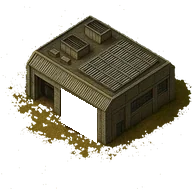
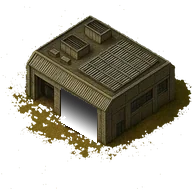
fix(art): bake a doorway shadow into the vehicle factory sprite
Paint a black depth gradient into the garage-cutout alpha of
vehicle_factory.webp so units emerge from shade at the sill.
Rebuild the prepared @1x, @2x and @3x factory sprites from that
source. Dirt-track alpha and the building body stay intact, and
no runtime overlay is added.

Live-Update: breaking (vehicle factory sprite is not hot-swappable)

Changed region(s): [[0.3125, 0.4375, 0.5312, 0.7188]]

diff --git a/prompt-history/20261026T132347Z_factory-door-shadow.md b/prompt-history/20261026T132347Z_factory-door-shadow.md
@@ -1,0 +1,9 @@
+UTC: 2026-10-26T13:23:47Z
+
+Model: Grok 4.7 in the Cursor cloud agent. Reasoning level, input tokens, visible output tokens, reasoning tokens, and exact task duration are not exposed to this session and are omitted.
+
+User request: On the System85/code-for-battle `dev` branch, fix the Vehicle Factory door shadow. The door is fully transparent (cut out). Where the door used to be, bake a gradient shadow into the alpha channel of the Vehicle Factory sprite itself. The shadow must not be a separate image or overlay. The sprite already uses RGBA (dirt tracks in front of the factory). Paint a black gradient into the alpha in the door region so a vehicle driving out at the bottom slowly emerges from the shadow. Edit the in-game sprite. The door gradient should be soft and natural: more opaque at the top of the doorway, more transparent toward the bottom where vehicles exit. Do not add a runtime overlay, CSS shadow, or second drawable. Keep dirt tracks and other alpha features intact. Follow AGENTS.md. Update docs/changes, features/unreleased, and prompt-history. Open a PR targeting `dev`. Run lint. Run focused tests only if asset pipelines have them. Do not run full e2e.
+
+Follow-up: Do not open a pull request. Leave finished commits on the agent branch only. Patrick wants the work applied as direct commits on `dev` after a clean rebase (the orchestrator handles the land). Still finish the Vehicle Factory door alpha gradient in the sprite asset itself, not an overlay. When done, report the branch name, commit SHA(s), and changed asset file short names. No PR.
+
+Outcome: Baked the doorway shadow into the alpha of `vehicle_factory.webp` and rebuilt the prepared factory sprites. No pull request was opened. Lint passed. Full unit and e2e suites were not run. Token counts were not available.

diff --git a/specs/vehicle-factory-exit-animation.md b/specs/vehicle-factory-exit-animation.md
@@ -8,7 +8,7 @@ The preferred destination is (factory.x, factory.y + 3), the first outside tile 
 
 Exiting vehicles cannot be selected or commanded, acquire/fire at targets, receive direct or splash damage, collide, or contribute pathfinding occupancy. Selection, control groups, mouse target picking, command handlers, policies, combat, defence targeting, spatial indexing, and utility automation honor this state. Save files and authoritative snapshots carry it; state hashing includes exit progress.
 
-The shared 2D entity overlay, used with 2D, WebGL and WebGPU terrain backends, renders exiting vehicles before buildings. The door uses the original artwork with no added dark interior or sheared shadow overlay. Small analytic dust/exhaust puffs and a warm early headlight accent require no random numbers or particle allocations. Garage doors are not animated.
+The shared 2D entity overlay, used with 2D, WebGL and WebGPU terrain backends, renders exiting vehicles before buildings. The doorway shade is the alpha gradient baked into `vehicle_factory.webp` (darker under the lintel, clear at the sill). No separate interior or shadow overlay is drawn. Small analytic dust/exhaust puffs and a warm early headlight accent require no random numbers or particle allocations. Garage doors are not animated.
 
 ## Preparation and cost
 

diff --git a/docs/changes/2026-10-26-vehicle-factory-door-shadow.md b/docs/changes/2026-10-26-vehicle-factory-door-shadow.md
@@ -1,0 +1,3 @@
+- [x] **Improvement: Vehicle factory doorway shadow**
+  The garage opening is no longer a fully clear cutout. A soft black gradient is baked into the alpha of `vehicle_factory.webp`, darker under the lintel and clear at the sill, so a vehicle rolls out of the shade. Dirt-track alpha and the building body stay as they were. No runtime overlay is drawn. Prepared `@1x`, `@2x` and `@3x` factory sprites were rebuilt from that source.
+  Spec: [Vehicle factory exit animation](../../specs/vehicle-factory-exit-animation.md)
